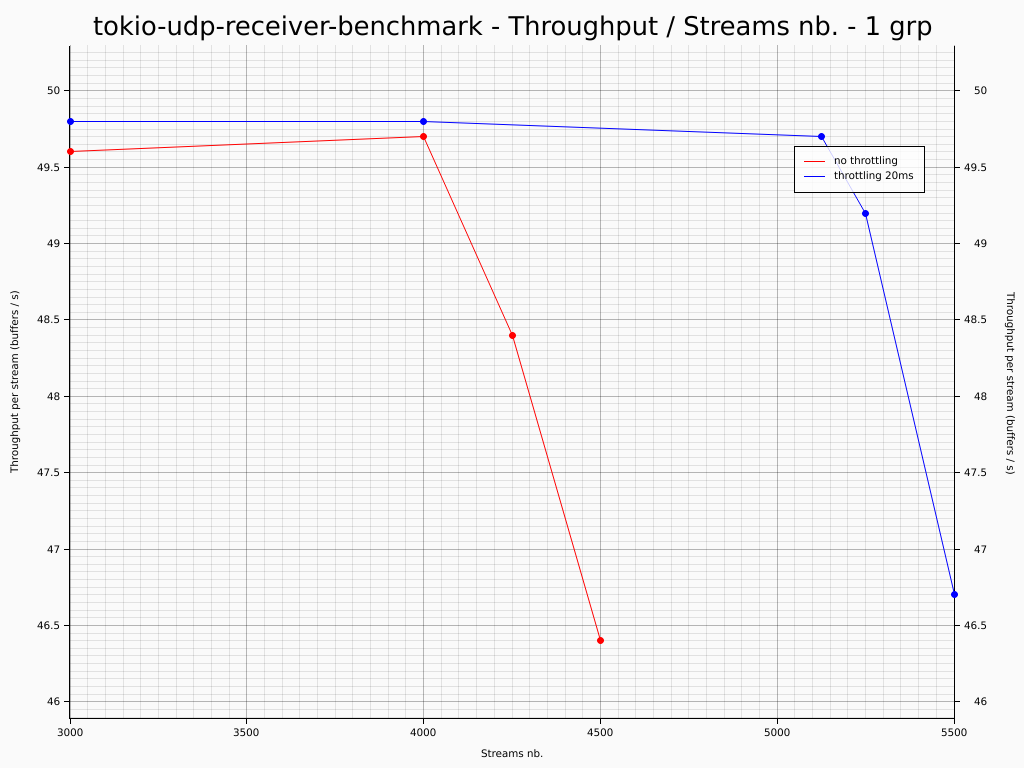
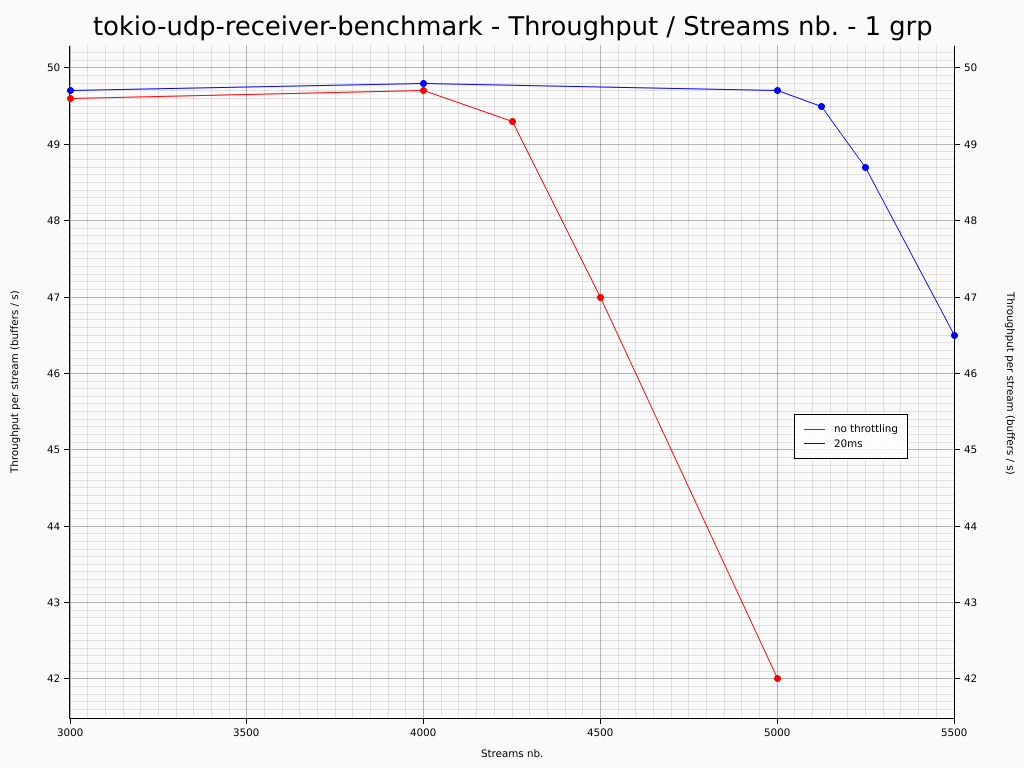
Update further to rebase of tokio/fengalin/throttling on master

diff --git a/evaluating_throttling_implementations/README.md b/evaluating_throttling_implementations/README.md
@@ -20,13 +20,18 @@ featured functions that gave control on the iterations of the executor:
 
 Thanks to these features the framework could benefit from the `tokio` executor
 while implementing a throttling strategy. The throttling strategy consists in
-grouping tasks and I/O pollings by forcing the thread to sleep during a short
-duration. The benefit are a more efficient use of the CPU and a wider bandwidth.
+grouping tasks, timers and I/O handling by forcing the thread to sleep during a
+short duration. For use cases where a large number of events are to be handled
+randomly (e.g. 1,000 live multimedia streams), this induces more efficient use
+of the CPU and wider bandwidth.
 
 Since the throttling strategy introduces pauses in the execution thread, timers
 need a special treatment so that they are fired close enough to their target
 instant. In order to avoid timers from being triggered too late,
 `gst-plugin-threadshare` implements its own timers management.
+
+See [this blog post](https://coaxion.net/blog/2018/04/improving-gstreamer-performance-on-a-high-number-of-network-streams-by-sharing-threads-between-elements-with-rusts-tokio-crate/)
+for a more in-depth explanation of this strategy.
 
 Two solutions are considered for `gst-plugin-threadshare` to keep up with
 `tokio` new versions (see [this thread](https://github.com/tokio-rs/tokio/issues/1887)):
@@ -50,8 +55,8 @@ implementations for solution (1).
 
 The goal of this evaluation is twofold:
 
-  1. Assess the impact of recent changes in `gst-plugin-threadshare`.
-  2. Support throttling as an approach to reduce CPU load for `tokio`'s executor.
+  1. Support throttling as an approach to reduce CPU load for `tokio`'s executor.
+  2. Assess the impact of recent changes in `gst-plugin-threadshare`.
 
 ## Conditions
 
@@ -59,7 +64,7 @@ The evaluation was conducted on the most powerful setup I could find, which is
 not that powerful unfortunately:
 
   - CPU: Intel Core i5 - 7200U @ 2.5GHz, 2 physical cores, SMT disabled.
-  - OS: Fedora 31 up to date as of 2019/12/16.
+  - OS: Fedora 31 up to date as of 2019/12/17.
   - Kernel: Linux `5.3.16-300.fc31.x86_64`.
   - Scaling governor: `performance`.
   - Max. file descriptors: 30,000 (`ulimit -Sn 30000`).
@@ -82,6 +87,38 @@ It would be interesting to conduct the tests on a more powerful setup so as to
 get a better idea of the actual throttling duration that could be used on the
 target machines.
 
+## Testing `tokio` throttling
+
+[`tokio-udp-receiver-benchmark`] was created to demonstrate the benefit of the
+throttling strategy on `tokio` without the `GStreamer` overhead. This project
+uses a set of UDP sender & receiver with control on the streams number and
+throttling duration.
+
+The tests were conducted on [`tokio` `0.2.4 + throttling`] branch with a
+[modified version of `tokio-udp-receiver-benchmark`]. The modified version
+prints the throughput reached by a single port. Only one port was used in order
+to avoid the need for synchronization primitives on a shared counter. The counter
+is incremented upon receipt of a new packet during 20s after which the throughput
+is printed on screen.
+
+### Results
+
+The following plot shows the CPU load induced by the non-throttling and
+throttling `BasicScheduler` of [`tokio` `0.2.4 + throttling`].
+
+![`tokio` only CPU load](plots/tokio/tokio_only_cpu_load_throuput_cpu_load.png?raw=true "`tokio` only CPU load")
+
+With this tests, the benefit on CPU load of throttling appears immediately.
+
+![`tokio` only throughput](plots/tokio/tokio_only_throuput_throughput.png?raw=true "`tokio` only throughput")
+
+The sender emits one buffer on each stream every 20ms. This means that one port
+of the receiver can receive at most 50 buffers per second.
+
+Despite the reduced CPU load, the throttling version can handle significantly
+more streams than the non-throttling version before the bandwidth starts
+narrowing.
+
 ## Comparison of `gst-plugin-threadshare` versions
 
 In order to benefit from the changes in the `Future` / `async` Rust ecosystem,
@@ -90,15 +127,15 @@ either `tokio` version upgrades or framework reworks. In this evaluation, we
 will compare the following versions which should allow assessing the impact of
 the different phases:
 
-| Name                | tokio         | Futures        | Framework         | Repo. |
-| ------------------- | ------------- | -------------- | ----------------- | ----- |
-| 0.1 (master)        | 0.1.22        | 0.1            | Initial model     | [link](https://gitlab.freedesktop.org/gstreamer/gst-plugins-rs/tree/f638b0eef7155e9bf40fb315284920b3d5eb034e) | 
-| 0.2.0.alpha.6 prev. | 0.2.0.alpha.6 | 0.3.0-alpha.19 | Initial model     | [link](https://gitlab.freedesktop.org/gstreamer/gst-plugins-rs/tree/908fa74132dc7935e40a55473ab24298a066c259) |
-| 0.2.0.alpha.6 Pad   | 0.2.0.alpha.6 | 0.3.0-alpha.19 | Pad wrapper model | [link](https://gitlab.freedesktop.org/gstreamer/gst-plugins-rs/tree/80a01f4754a0ec7d1b4756d7755fcdeff6d50928) |
-| 0.2.2 + throttling  | 0.2.2 + thrtl | 0.3.1          | Pad wrapper model | [link](https://gitlab.freedesktop.org/fengalin/gst-plugins-rs/tree/acce02073550ec4e7f065e48e13511ee1cc6db26) |
+| Name                | tokio         | Futures        | Design      | Repo. |
+| ------------------- | ------------- | -------------- | ----------- | ----- |
+| 0.1 (master)        | 0.1.22        | 0.1            | Initial     | [link](https://gitlab.freedesktop.org/gstreamer/gst-plugins-rs/tree/f638b0eef7155e9bf40fb315284920b3d5eb034e) | 
+| 0.2.0.alpha.6 prev. | 0.2.0.alpha.6 | 0.3.0-alpha.19 | Initial     | [link](https://gitlab.freedesktop.org/gstreamer/gst-plugins-rs/tree/908fa74132dc7935e40a55473ab24298a066c259) |
+| 0.2.0.alpha.6 Pad   | 0.2.0.alpha.6 | 0.3.0-alpha.19 | Pad wrapper | [link](https://gitlab.freedesktop.org/gstreamer/gst-plugins-rs/tree/80a01f4754a0ec7d1b4756d7755fcdeff6d50928) |
+| 0.2.2 + throttling  | 0.2.2 + thrtl | 0.3.1          | Pad wrapper | [link](https://gitlab.freedesktop.org/fengalin/gst-plugins-rs/tree/acce02073550ec4e7f065e48e13511ee1cc6db26) |
 
-The Pad wrapper model introduces an API similar to `GStreamer`'s [`GstPad`] type,
-except that it uses `Future`s whenever possible.
+The Pad wrapper design introduces an API similar to `GStreamer`'s [`GstPad`]
+type, except that it uses `Future`s whenever possible.
 
 ### Tools
 
@@ -194,47 +231,11 @@ of the throttling strategy.
 At 2,500 streams, only `0.2.2 + throttling` is able to benefit from the
 throttling strategy on this configuration.
 
-## Testing `tokio` throttling
-
-`tokio-udp-receiver-benchmark` was created to demonstrate the benefit of the
-throttling strategy on `tokio` without the `GStreamer` overhead. This project
-uses the same approach as the tests above: a set of UDP sender & receiver with
-control on the streams number and throttling duration.
-
-The tests were conducted on [`tokio` `0.2.2 + throttling`] branch with a
-[modified version of `tokio-udp-receiver-benchmark`]. The modified version
-prints the throughput reached by a single port. Only one port was used in order
-to avoid the need for synchronization primitives on a shared counter. The counter
-is incremented upon receipt of a new packet during 20s after which the throughput
-is printed on screen.
-
-### Results
-
-The following plot shows the CPU load induced by the non-throttling and
-throttling `BasicScheduler` of [`tokio` `0.2.2 + throttling`].
-
-![`tokio` only CPU load](plots/tokio/tokio_only_cpu_load_throuput_cpu_load.png?raw=true "`tokio` only CPU load")
-
-With this tests, the benefit on CPU load of throttling appears immediately. But,
-it would be interesting to check that the throughput doesn't suffer from the
-thread forced pauses.
-
-![`tokio` only throughput](plots/tokio/tokio_only_throuput_throughput.png?raw=true "`tokio` only throughput")
-
-The sender emits one buffer on each stream every 20ms. This means that one port
-of the receiver can receive at most 50 buffers per second.
-
-Despite the reduced CPU load, the throttling version can handle significantly
-more streams than the non-throttling version before the throughput starts to
-decline.
-
 ## Next steps
 
 The following next steps are identified:
 
-  - Cleanup the implementation of [`tokio` `0.2.2 + throttling`]
-    and rebase on master.
-  - Propose [`tokio` `0.2.2 + throttling`] for inclusion in upstream `tokio`.
+  - Propose [`tokio` `0.2.4 + throttling`] for inclusion in upstream `tokio`.
   - Perform similar tests on `gst-plugin-threadshare` with additional
     `{ts-}Queue`s in the pipeline so that the evaluation doesn't rely mostly
     on I/O.
@@ -248,6 +249,6 @@ The following next steps are identified:
 [`GStreamer`]: https://gstreamer.freedesktop.org/
 [`tokio`]: https://github.com/tokio-rs/tokio
 [`GstPad`]: https://gstreamer.freedesktop.org/documentation/gstreamer/gstpad.html?gi-language=c
-[`tokio` `0.2.2 + throttling`]: https://github.com/fengalin/tokio/tree/aa0d49be4d2b7e97f2db31e1b3ca4909f8962e9c
+[`tokio` `0.2.4 + throttling`]: https://github.com/fengalin/tokio/tree/12574ec03dfac4772b5b2142067be7b5c5009ea4
 [`tokio-udp-receiver-benchmark`]: https://github.com/sdroege/tokio-udp-receiver-benchmark
 [modified version of `tokio-udp-receiver-benchmark`]: https://github.com/fengalin/tokio-udp-receiver-benchmark/tree/5e3a6ba2d81dda6a0f470eee1c46d380f6bf1a50
